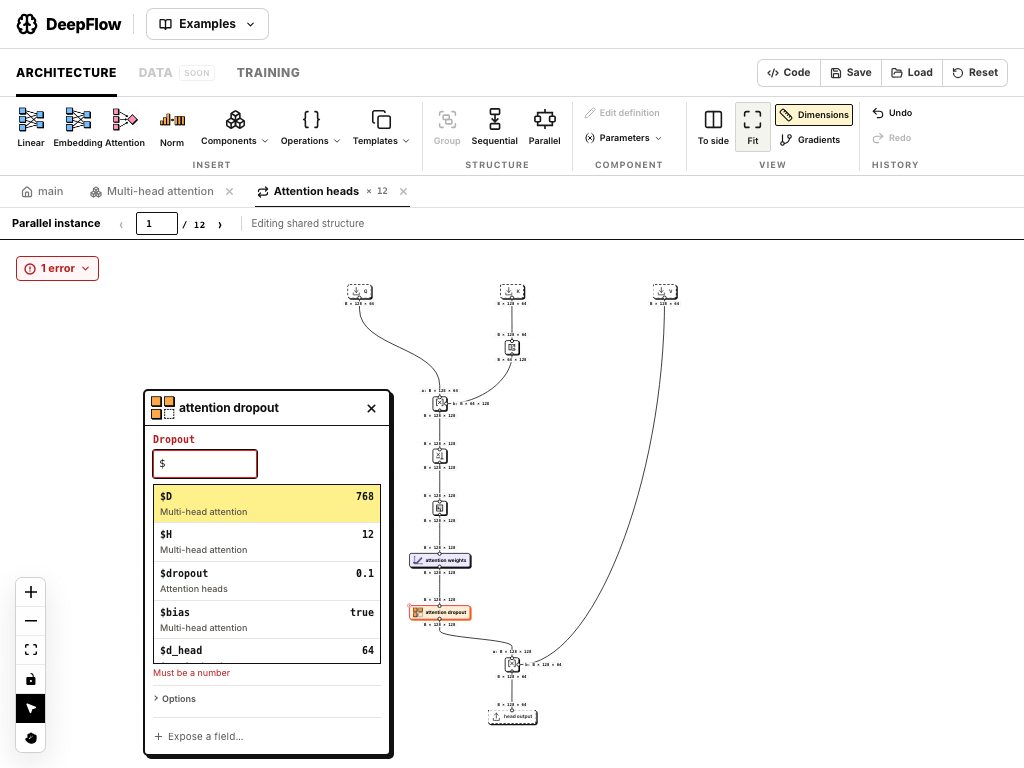
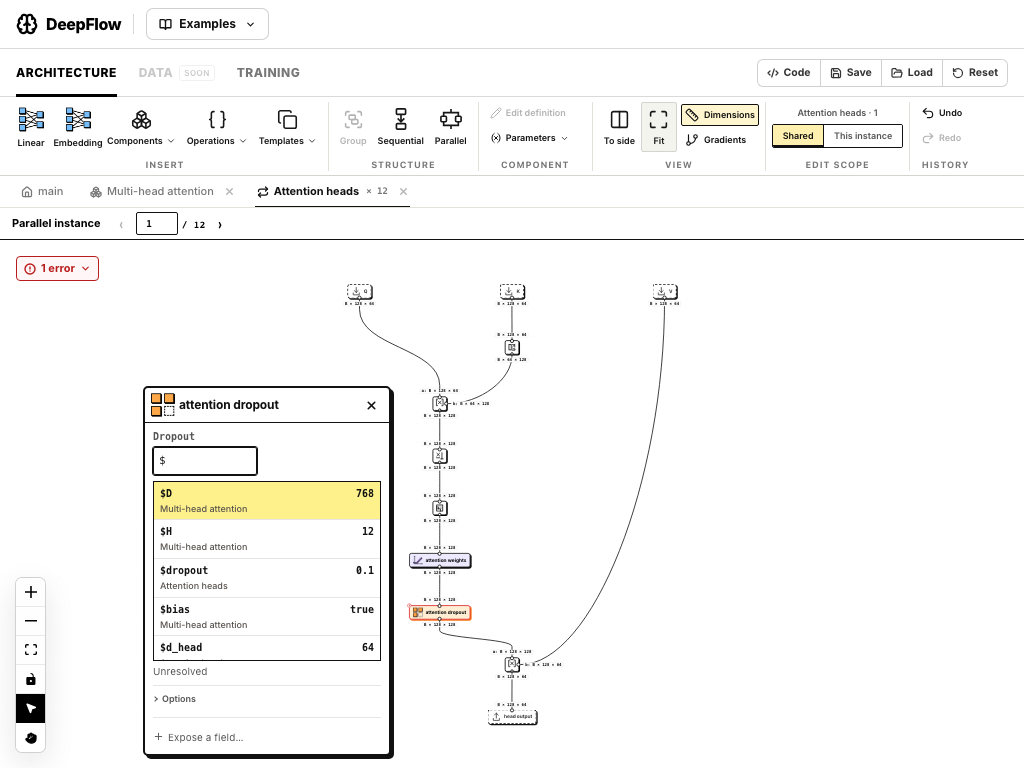
Add Shared and This instance switch after View with responsive browser checks

diff --git a/src/components/architecture/ArchitectureRibbon.jsx b/src/components/architecture/ArchitectureRibbon.jsx
@@ -1,6 +1,7 @@
 import { useCallback, useEffect, useRef, useState } from 'react';
 import { ArrowUpRight, Boxes, Braces, Check, ChevronDown, Columns2, Copy, GitBranch, Group, Maximize, Pencil, Redo2, Ruler, Undo2, Variable, X } from 'lucide-react';
 import { resolveGraphLevel } from '../../domain/architecture/index.js';
+import { effectiveTemplateId } from '../../domain/architecture/instanceStructure.js';
 import { resolveComponentContext } from '../../domain/componentContext.js';
 import { useValidation, useValidationContext } from '../../hooks/useValidation.js';
 import { useArchitectureStore, useArchitectureStoreApi } from '../../stores/architectureStore.js';
@@ -42,6 +43,7 @@ export default function ArchitectureRibbon({ paneId, split, onInsert, onFitView 
     const graph = useArchitectureStore((s) => s.graph);
     const currentPath = useArchitectureStore((s) => s.currentPath);
     const selectedNodeIds = useArchitectureStore((s) => s.selectedNodeIds);
+    const inspectedIterations = useArchitectureStore((s) => s.inspectedIterations);
     const showGradientFlow = useArchitectureStore((s) => s.showGradientFlow);
     const showDimensions = useArchitectureStore((s) => s.showDimensions) !== false;
     const canUndo = useArchitectureHistory((s) => s.canUndo);
@@ -63,10 +65,15 @@ export default function ArchitectureRibbon({ paneId, split, onInsert, onFitView 
     const ribbonRef = useRef(null);
     const triggerRef = useRef(null);
     const operationsButtonRef = useRef(null);
-    const level = resolveGraphLevel(graph, currentPath, templates);
+    const level = resolveGraphLevel(graph, currentPath, templates, inspectedIterations);
     const selection = selectedNodeIds.map((id) => level.graph.nodes[id]).filter(Boolean);
     const selectedComponent = selection.length === 1 && ['supernode', 'repeat'].includes(selection[0].kind) ? selection[0] : null;
-    const templateId = selectedComponent?.templateId ?? level.templateId;
+    const scopePath = selectedComponent ? [...currentPath, selectedComponent.id] : currentPath;
+    const structureScope = architectureStore.getState().getStructureScope(scopePath);
+    const scopeLabel = structureScope.available
+        ? `${structureScope.label}${structureScope.index === null ? '' : ` · ${structureScope.index + 1}`}`
+        : 'Select a component';
+    const templateId = selectedComponent ? effectiveTemplateId(selectedComponent, structureScope.index ?? 0) : level.templateId;
     const template = templates[templateId];
     const selectedRepeatMode = selectedComponent?.kind === 'repeat' ? selectedComponent.mode ?? 'sequential' : null;
     const quickEntries = pins.map((key) => PINNABLE_ENTRIES.find((entry) => entry.key === key)).filter(Boolean);
@@ -126,7 +133,7 @@ export default function ArchitectureRibbon({ paneId, split, onInsert, onFitView 
         const id = state.groupSelection([...state.selectedNodeIds], name.trim() || 'Component');
         if (!id) { setError('Select blocks with a single input and output boundary to group them.'); return null; }
         const latest = architectureStore.getState();
-        const current = resolveGraphLevel(latest.graph, latest.currentPath, useTemplatesStore.getState().templates).graph;
+        const current = resolveGraphLevel(latest.graph, latest.currentPath, useTemplatesStore.getState().templates, latest.inspectedIterations).graph;
         const instance = Object.values(current.nodes).find((node) => node.kind === 'supernode' && node.templateId === id);
         if (instance) latest.selectOnly(instance.id);
         return instance?.id ?? null;
@@ -209,6 +216,19 @@ export default function ArchitectureRibbon({ paneId, split, onInsert, onFitView 
                 <div className="df-ribbon-view-options">
                     <button type="button" aria-label="Show dimensions" aria-pressed={showDimensions} onClick={() => architectureStore.getState().setShowDimensions(!showDimensions)} title="Show tensor dimensions at input and output ports"><Ruler size={14} />Dimensions</button>
                     <button type="button" aria-label="Show gradient flow" aria-pressed={!!showGradientFlow} onClick={() => architectureStore.getState().setShowGradientFlow(!showGradientFlow)} title="Show differentiable paths and stopped gradients"><GitBranch size={14} />Gradients</button>
+                </div>
+            </RibbonGroup>
+            <RibbonGroup label="Edit scope" className="df-ribbon-scope">
+                <div className="df-ribbon-scope-control">
+                    <span className="df-ribbon-scope-target" title={scopeLabel}>{scopeLabel}</span>
+                    <div className="df-ribbon-scope-switch" role="group" aria-label="Structure edit scope">
+                        <button type="button" disabled={!structureScope.available} aria-pressed={structureScope.available && !structureScope.local}
+                            onClick={() => { closePopup(); architectureStore.getState().setStructureScope('shared', scopePath); }}
+                            title="Edit the structure shared by all linked instances. A saved local structure is kept.">Shared</button>
+                        <button type="button" disabled={!structureScope.available} aria-pressed={structureScope.available && structureScope.local}
+                            onClick={() => { closePopup(); architectureStore.getState().setStructureScope('local', scopePath); }}
+                            title={structureScope.hasSavedLocal ? 'Resume the saved structure for this instance only.' : 'Edit a separate structure for this instance only.'}>This instance</button>
+                    </div>
                 </div>
             </RibbonGroup>
             <RibbonGroup label="History" className="df-ribbon-history">

diff --git a/src/components/architecture/ribbon.css b/src/components/architecture/ribbon.css
@@ -20,6 +20,18 @@
 .df-ribbon-component .df-ribbon-command-list { gap: 3px; }
 .df-ribbon-component .df-ribbon-command-list button, .df-ribbon-history .df-ribbon-command-list button { height: 22px; }
 .df-ribbon-history .df-ribbon-command-list { width: 59px; gap: 3px; }
+.df-ribbon-scope-control { display: flex; flex-direction: column; justify-content: center; gap: 5px; width: 143px; height: 50px; }
+.df-ribbon-scope-target { overflow: hidden; text-overflow: ellipsis; white-space: nowrap; color: #555; font-size: 9px; font-weight: 600; line-height: 12px; text-align: center; }
+.df-ribbon-scope-switch { display: flex; border: 1px solid #111; border-radius: 2px; overflow: hidden; }
+.df-ribbon-scope-switch button { flex: 1 0 auto; min-width: 0; padding: 4px 5px; background: #fff; color: #555; font-size: 10px; font-weight: 600; line-height: 14px; white-space: nowrap; }
+.df-ribbon-scope-switch button + button { border-left: 1px solid #111; }
+.df-ribbon-scope-switch button[aria-pressed="true"] { color: #111; background: #fff0af; box-shadow: inset 0 -2px 0 #111; }
+.df-ribbon-scope-switch button:hover:not(:disabled) { background: #f4f4ef; color: #111; }
+.df-ribbon-scope-switch button[aria-pressed="true"]:hover { background: #ffe994; }
+.df-ribbon-scope-switch:has(button:disabled) { border-color: #d4d4ce; }
+.df-ribbon-scope-switch button:disabled { color: #aaa; cursor: default; }
+.df-ribbon-scope-switch button:disabled + button { border-color: #d4d4ce; }
+.df-ribbon-scope-switch button:focus-visible { outline-offset: -2px; }
 .df-ribbon-view-options { display: flex; flex-direction: column; justify-content: center; gap: 3px; margin-left: 3px; }
 .df-ribbon-view-options button { display: flex; align-items: center; gap: 5px; height: 22px; padding: 2px 5px; border: 1px solid transparent; border-radius: 2px; font-size: 10px; font-weight: 600; }
 .df-ribbon-view-options button:hover { border-color: #d4d4ce; background: #f4f4ef; }
@@ -78,14 +90,19 @@
     .df-ribbon-group { padding-right: 6px; }
     .df-ribbon-actions { gap: 1px; }
     .df-ribbon-family { width: 46px; }
+    .df-ribbon-family:nth-child(n+3) { display: none; }
     .df-ribbon-button { min-width: 36px; padding-left: 4px; padding-right: 4px; font-size: 9px; }
     .df-ribbon-command-list { width: 101px; }
     .df-ribbon-command-list button { font-size: 9px; gap: 4px; }
     .df-ribbon-view-options button { font-size: 9px; padding-left: 3px; padding-right: 3px; }
+    .df-ribbon-scope-control { width: 131px; }
+    .df-ribbon-scope-switch button { padding-left: 4px; padding-right: 4px; font-size: 9px; }
     .df-ribbon-pane-cue { position: absolute; right: 8px; bottom: 4px; font-size: 8px; }
 }
 @media (max-width: 930px) {
-    .df-ribbon-family:nth-child(n+2) { display: none; }
+    .df-ribbon-family { display: none; }
+    .df-ribbon-component .df-ribbon-command-list { width: 92px; }
+    .df-ribbon-view-options button { justify-content: center; width: 24px; gap: 0; padding: 2px; font-size: 0; }
     .df-ribbon-pane-cue { display: none; }
 }
 @media (max-width: 760px) {

diff --git a/src/components/architecture/NodeInspector.jsx b/src/components/architecture/NodeInspector.jsx
@@ -1,3 +1,4 @@
+import { useComponentTemplate } from '../../hooks/useComponentTemplate.js';
 import React, { useEffect, useRef } from 'react';
 import { AlertCircle, AlertTriangle, Boxes, ChevronDown, Repeat, X } from 'lucide-react';
 import { PYTORCH_BLOCKS, getEntry } from '../../domain/library/index.js';
@@ -158,7 +159,7 @@ function Bindings({ freeParams, values, onChange, hint }) {
 }
 
 function SupernodeBody({ id, node }) {
-    const template = useTemplatesStore((s) => s.templates[node.templateId]);
+    const template = useComponentTemplate(node);
     const patchNode = useArchitectureStore((s) => s.patchNode);
     const values = node.parameterValues ?? {};
     return (
@@ -174,7 +175,7 @@ function SupernodeBody({ id, node }) {
 }
 
 function RepeatBody({ id, node }) {
-    const template = useTemplatesStore((s) => s.templates[node.templateId]);
+    const template = useComponentTemplate(node);
     const patchRepeatNode = useArchitectureStore((s) => s.patchRepeatNode);
     const patchRepeatBinding = useArchitectureStore((s) => s.patchRepeatBinding);
     const context = useValidationContext();
@@ -231,6 +232,7 @@ function RepeatBody({ id, node }) {
 export default function NodeInspector() {
     const rootGraph = useArchitectureStore((s) => s.graph);
     const currentPath = useArchitectureStore((s) => s.currentPath);
+    const inspectedIterations = useArchitectureStore((s) => s.inspectedIterations);
     const templates = useTemplatesStore((s) => s.templates);
     const expandedNodeId = useArchitectureStore((s) => s.expandedNodeId);
     const clearExpanded = useArchitectureStore((s) => s.clearExpanded);
@@ -239,8 +241,9 @@ export default function NodeInspector() {
     const validation = useValidation();
     const panelRef = useInspectorPlacement(expandedNodeId);
 
-    const graph = resolveGraphLevel(rootGraph, currentPath, templates).graph;
+    const graph = resolveGraphLevel(rootGraph, currentPath, templates, inspectedIterations).graph;
     const node = expandedNodeId ? graph?.nodes?.[expandedNodeId] : null;
+    const componentTemplate = useComponentTemplate(node);
     if (!node) return null;
 
     const id = node.id;
@@ -250,7 +253,6 @@ export default function NodeInspector() {
         : node.kind === 'repeat' ? [{ name: 'count' }] : [];
     const { fields: fieldErrors, remaining: nodeErrors } = partitionParameterErrors(issueParameters, errors);
     const ContainerIcon = node.kind === 'repeat' ? Repeat : Boxes;
-    const componentTemplate = templates[node.templateId];
     const standard = STANDARD_COMPONENTS.find((component) => component.key === (componentTemplate?.standardKey ?? componentTemplate?.componentStyleKey));
     const operation = node.kind === 'layer' && isOperationKey(node.libraryKey) && getEntry(node.libraryKey)?.category !== 'Parameters';
     const rename = (label) => (node.kind === 'repeat' ? patchRepeatNode(id, { label }) : patchNode(id, { label }));

diff --git a/src/components/architecture/ParameterBinding.jsx b/src/components/architecture/ParameterBinding.jsx
@@ -1,11 +1,11 @@
+import { useComponentTemplate } from '../../hooks/useComponentTemplate.js';
 import { cloneElement, createContext, useContext, useState } from 'react';
 import { Plus, Unlink, X } from 'lucide-react';
 import { useArchitectureStore } from '../../stores/architectureStore.js';
 import { useTemplatesStore } from '../../stores/templatesStore.js';
 import { resolveGraphLevel } from '../../domain/architecture/index.js';
 import { getEntry } from '../../domain/library/index.js';
-import { useValidation, useValidationContext } from '../../hooks/useValidation.js';
-import { resolveComponentContext } from '../../domain/componentContext.js';
+import { resolveLevelContext, useValidationContext } from '../../hooks/useValidation.js';
 import { resolveDimensionTuple } from '../../domain/expressions.js';
 import { availableParameters, formatParameterValue, parameterFrames, parameterOrigin, parameterReferences, resolvedFieldValue } from '../../domain/parameterBindings.js';
 import './parameter-binding.css';
@@ -16,12 +16,13 @@ export function ParameterBindingsProvider({ node, children }) {
     const graph = useArchitectureStore((s) => s.graph);
     const path = useArchitectureStore((s) => s.currentPath);
     const templates = useTemplatesStore((s) => s.templates);
+    const inspectedIterations = useArchitectureStore((s) => s.inspectedIterations);
     const context = useValidationContext();
-    const report = useValidation();
-    const level = resolveGraphLevel(graph, path, templates);
-    const template = templates[node.templateId];
-    const component = template ? resolveComponentContext(node, template, context.graph, report.shapes, context.scope) : null;
-    const frames = parameterFrames(graph, path, templates);
+    const level = resolveGraphLevel(graph, path, templates, inspectedIterations);
+    const template = useComponentTemplate(node);
+    const child = template ? resolveLevelContext(graph, [...path, node.id], templates, inspectedIterations) : null;
+    const component = child ? { scope: child.scope, inputs: child.externalInputs, count: child.repeat?.count ?? 1, index: child.repeat?.index ?? 0 } : null;
+    const frames = parameterFrames(graph, path, templates, inspectedIterations);
     const parameters = availableParameters(frames);
     for (const frame of frames) {
         const name = frame.instance.iterationVariable || 'i';

diff --git a/src/components/architecture/ParallelRepeatNodeView.jsx b/src/components/architecture/ParallelRepeatNodeView.jsx
@@ -1,3 +1,4 @@
+import { useComponentTemplate } from '../../hooks/useComponentTemplate.js';
 import { memo } from 'react';
 import { Handle, Position } from '@xyflow/react';
 import { Boxes, ChevronRight, GitFork, X } from 'lucide-react';
@@ -24,12 +25,13 @@ function ParallelRepeatNodeView({ id, data, selected }) {
     const context = useValidationContext();
     const report = useValidation();
     const ports = inputPortsFor(node, templates);
-    const template = templates[node.templateId];
+    const template = useComponentTemplate(node);
     const { count } = template && context?.graph
         ? resolveComponentContext(node, template, context.graph, report.shapes, context.scope)
         : resolveRepeatCount(node.count, context?.scope);
     const sideMenuProps = useOpenToSideNode([...currentPath, id], { disabled: !template });
     const tone = report.errors[id]?.length ? 'error' : 'ok';
+    const localCount = Object.entries(node.structureOverrides ?? {}).filter(([index, override]) => override?.enabled && Number(index) < count).length;
     const instances = count > 3 ? [0, 1, count - 1] : Array.from({ length: count || 0 }, (_, index) => index);
     // The drawing represents the collection; its footprint is independent of
     // instance count. Open the definition to inspect any individual instance.
@@ -62,7 +64,7 @@ function ParallelRepeatNodeView({ id, data, selected }) {
                 </span>)}
                 {!count && <span className="df-parallel-invalid">Set a valid count</span>}
             </div>
-            <div className="df-parallel-footer"><span>Parallel · shared structure</span><span>Collection ↓</span></div>
+            <div className="df-parallel-footer"><span>{localCount ? `Parallel · ${localCount} local` : 'Parallel · shared structure'}</span><span>Collection ↓</span></div>
             <button aria-label={`Delete ${node.label}`} onClick={(event) => { event.stopPropagation(); removeNode(id); }} className="nodrag df-block-delete"><X size={10} strokeWidth={3} /></button>
             <PortShapeLabels node={node} shapes={report.shapes} hideInput={ports.length > 1} />
             <NodeInputPorts node={node} shapes={report.shapes} />

diff --git a/src/components/architecture/TemplateInspector.jsx b/src/components/architecture/TemplateInspector.jsx
@@ -151,16 +151,17 @@ function TemplateParameters({ template, embedded, initiallyOpen, onOpenConsumer 
 export default function TemplateInspector({ embedded = false, templateId, initiallyOpen = false }) {
     const graph = useArchitectureStore((s) => s.graph);
     const currentPath = useArchitectureStore((s) => s.currentPath);
+    const inspectedIterations = useArchitectureStore((s) => s.inspectedIterations);
     const selectedNodeIds = useArchitectureStore((s) => s.selectedNodeIds);
     const openLevel = useArchitectureStore((s) => s.openLevel);
     const selectOnly = useArchitectureStore((s) => s.selectOnly);
     const setExpanded = useArchitectureStore((s) => s.setExpanded);
     const templates = useTemplatesStore((s) => s.templates);
-    const level = resolveGraphLevel(graph, currentPath, templates);
+    const level = resolveGraphLevel(graph, currentPath, templates, inspectedIterations);
     const template = templates[templateId ?? level.templateId];
 
     if (!template) return null;
-    const selected = selectedNodeIds.map((id) => level.graph.nodes[id]).find((node) => node?.templateId === template.id);
+    const selected = selectedNodeIds.map((id) => level.graph.nodes[id]).find((node) => node && resolveGraphLevel(graph, [...currentPath, node.id], templates, inspectedIterations).templateId === template.id);
     const path = level.templateId === template.id ? currentPath : selected ? [...currentPath, selected.id] : null;
     const openConsumer = path ? (id) => { openLevel(path); selectOnly(id); setExpanded(id); } : null;
     return <TemplateParameters key={template.id} template={template} embedded={embedded} initiallyOpen={initiallyOpen} onOpenConsumer={openConsumer} />;

diff --git a/src/components/architecture/ArchitectureCanvas.jsx b/src/components/architecture/ArchitectureCanvas.jsx
@@ -73,6 +73,7 @@ const Inner = ({ children, overlay, paneId = 'main', keyboardActive = true }) =>
     const storeId = useMemo(() => architectureStore.getState().getMutationContext().storeId, [architectureStore]);
     const rootGraph = useArchitectureStore((s) => s.graph);
     const currentPath = useArchitectureStore((s) => s.currentPath);
+    const inspectedIterations = useArchitectureStore((s) => s.inspectedIterations);
     const selectedNodeIds = useArchitectureStore((s) => s.selectedNodeIds);
     const templates = useTemplatesStore((s) => s.templates);
     const moveNodes = useArchitectureStore((s) => s.moveNodes);
@@ -104,8 +105,8 @@ const Inner = ({ children, overlay, paneId = 'main', keyboardActive = true }) =>
     // Resolve the visible graph from the path. Templates is included in deps
     // so edits inside a drilled-in template re-render the canvas.
     const viewGraph = useMemo(
-        () => resolveGraphLevel(rootGraph, currentPath, templates).graph,
-        [rootGraph, currentPath, templates],
+        () => resolveGraphLevel(rootGraph, currentPath, templates, inspectedIterations).graph,
+        [rootGraph, currentPath, templates, inspectedIterations],
     );
 
     const levelKey = JSON.stringify(currentPath);

diff --git a/src/components/architecture/BlockPalette.jsx b/src/components/architecture/BlockPalette.jsx
@@ -29,10 +29,11 @@ export default function BlockPalette({ onAdd, onClose, section = 'operations', o
     const searchRef = useRef(null);
     const templates = useTemplatesStore((s) => s.templates);
     const currentPath = useArchitectureStore((s) => s.currentPath);
+    const inspectedIterations = useArchitectureStore((s) => s.inspectedIterations);
     const rootGraph = useArchitectureStore((s) => s.graph);
-    const editingTemplateId = resolveGraphLevel(rootGraph, currentPath, templates).templateId;
+    const editingTemplateId = resolveGraphLevel(rootGraph, currentPath, templates, inspectedIterations).templateId;
     const templateEntries = Object.values(templates)
-        .filter((template) => !template.standardKey)
+        .filter((template) => !template.standardKey && !template.structureVariant)
         .filter((template) => !editingTemplateId || !containsTemplate(template.id, editingTemplateId, templates))
         .map((template) => ({ key: template.id, name: template.name, category: 'Template', description: template.description || 'Reusable graph template' }));
     const categorized = new Set(GROUPS.flatMap((group) => group.keys));

diff --git a/src/components/architecture/ArchitectureWorkspace.jsx b/src/components/architecture/ArchitectureWorkspace.jsx
@@ -95,14 +95,14 @@ export default function ArchitectureWorkspace() {
     const openToSide = useCallback((path) => {
         const sourceStore = activePane === 'side' && sideStore ? sideStore : mainStore;
         const inspection = sourceStore.getState().inspectedIterations;
-        const destination = sideStore ?? createArchitecturePaneStore({ path });
-        if (sideStore) destination.getState().openLevel(path);
+        const destination = sideStore ?? createArchitecturePaneStore();
         // Start with the same inspected instances, including outer repeats;
         // subsequent index changes remain local to each pane.
         for (let depth = 1; depth <= path.length; depth++) {
             const prefix = path.slice(0, depth);
             destination.getState().setInspectedIteration(prefix, inspection[JSON.stringify(prefix)] ?? 0);
         }
+        destination.getState().openLevel(path);
         if (!sideStore) setSideStore(destination);
         setActivePane('side');
         setSideFocusRequest((value) => value + 1);

diff --git a/src/components/architecture/GraphStatusPanel.jsx b/src/components/architecture/GraphStatusPanel.jsx
@@ -29,13 +29,14 @@ export default function GraphStatusPanel() {
     const archGraph = useArchitectureStore((s) => s.graph);
     const templates = useTemplatesStore((s) => s.templates);
     const currentPath = useArchitectureStore((s) => s.currentPath);
+    const inspectedIterations = useArchitectureStore((s) => s.inspectedIterations);
     const [open, setOpen] = useState(false);
     const [hoverNodeId, setHoverNodeId] = useState(null);
     const ref = useRef(null);
     const triggerRef = useRef(null);
     const issuesId = useId();
     const { setCenter, getZoom } = useReactFlow();
-    const viewGraph = resolveGraphLevel(archGraph, currentPath, templates).graph;
+    const viewGraph = resolveGraphLevel(archGraph, currentPath, templates, inspectedIterations).graph;
     const groups = groupGraphIssues(validation, viewGraph, templates);
     const errorCount = groups.reduce((count, group) => count + group.errors.length, 0);
     const warningCount = groups.reduce((count, group) => count + group.warnings.length, 0);

diff --git a/src/components/architecture/nodeInputPorts.js b/src/components/architecture/nodeInputPorts.js
@@ -1,8 +1,14 @@
+import { effectiveTemplateId } from '../../domain/architecture/instanceStructure.js';
 import { getTemplateInputIds, getOperationInputIds } from '../../domain/graphInputs.js';
 
 export function inputPortsFor(node, templates) {
     const operation = getOperationInputIds(node);
     if (operation) return operation.map((id) => ({ id, label: id }));
-    const graph = templates[node.templateId]?.graph;
-    return graph ? getTemplateInputIds(graph).map((id) => ({ id, label: graph.nodes[id].label })) : [];
+    const ids = node.kind === 'repeat' ? [node.templateId, ...Object.values(node.structureOverrides ?? {}).filter((override) => override?.enabled).map((override) => override.templateId)] : [effectiveTemplateId(node)];
+    const ports = new Map();
+    for (const templateId of ids) {
+        const graph = templates[templateId]?.graph;
+        if (graph) for (const id of getTemplateInputIds(graph)) ports.set(id, { id, label: graph.nodes[id].label });
+    }
+    return [...ports.values()];
 }

diff --git a/src/components/architecture/SuperNodeInstanceView.jsx b/src/components/architecture/SuperNodeInstanceView.jsx
@@ -1,3 +1,4 @@
+import { useComponentTemplate } from '../../hooks/useComponentTemplate.js';
 import React, { memo, useCallback } from 'react';
 import { Handle, Position } from '@xyflow/react';
 import { Boxes, ChevronRight, X } from 'lucide-react';
@@ -17,7 +18,7 @@ import OperationIcon from './OperationIcon.jsx';
 /** A supernode instance: hatched container, label, "open" affordance. */
 const SuperNodeInstanceView = ({ id, data, selected }) => {
     const node = data.node;
-    const template = useTemplatesStore((s) => s.templates[node.templateId]);
+    const template = useComponentTemplate(node);
     const standard = STANDARD_COMPONENTS.find((component) => component.key === (template?.standardKey ?? template?.componentStyleKey));
     const accent = standard ? styleFor(getEntry(standard.libraryKey)?.category).accent : undefined;
     const removeNode = useArchitectureStore((s) => s.removeNode);
